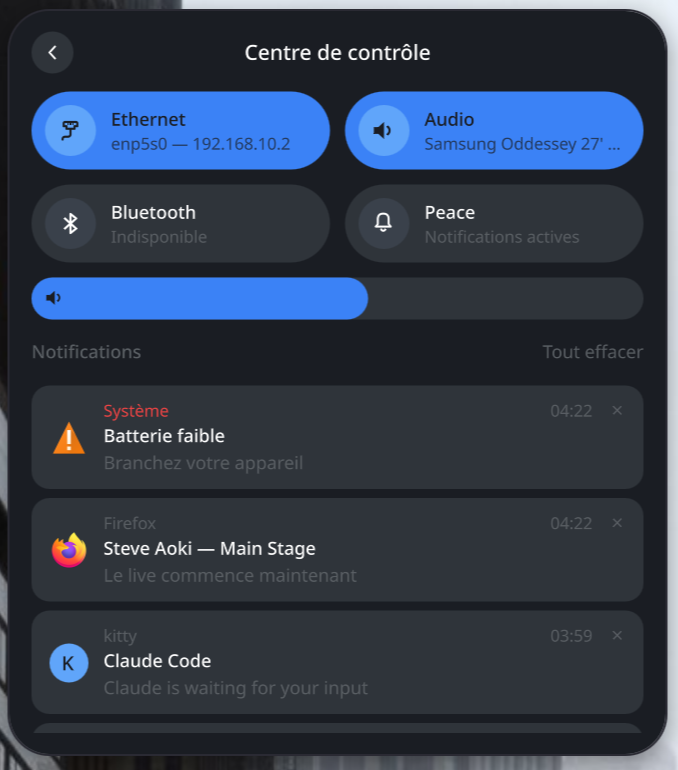
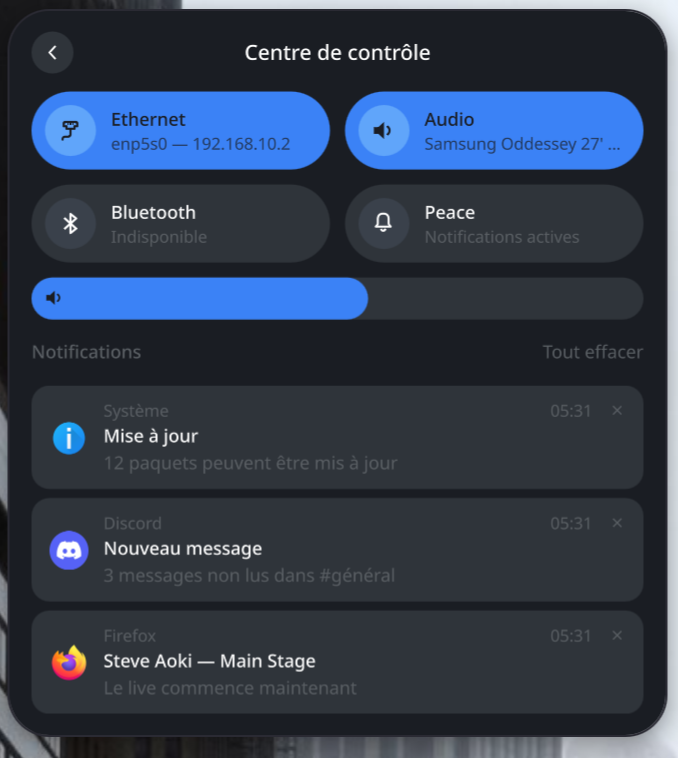
README: retrait rofi/waybar/swaync + captures sans fastfetch

diff --git a/README.md b/README.md
@@ -28,12 +28,11 @@ sont **vectorielles** (aucune police d'icônes).
 
 * **OS :** Fedora Linux
 * **Window Manager :** [Hyprland](https://hyprland.org/) *(compatible v0.55+, nouvelle syntaxe IPC Lua)*
-* **Barre d'état :** [Quickshell](https://quickshell.outfoxxed.me/) — la *Morphing Island* maison *(remplace progressivement waybar)*
+* **Barre d'état & notifications & lanceur :** [Quickshell](https://quickshell.outfoxxed.me/) — la *Morphing Island* maison (remplace barre, notifications et lanceur classiques)
 * **Terminal :** [Kitty](https://sw.kovidgoyal.net/kitty/)
 * **Shell :** [Fish](https://fishshell.com/)
 * **Gestionnaire de fichiers :** [Thunar](https://docs.xfce.org/xfce/thunar/start)
 * **Gestionnaire de fichiers (TUI) :** [Yazi](https://yazi-rs.github.io/)
-* **Lanceur (secours) :** [Rofi](https://github.com/davatorium/rofi)
 * **Menu de déconnexion :** [Wlogout](https://github.com/ArtsyMacaw/wlogout)
 * **Thème GTK :** Fork personnalisé de [Orchis-Theme](https://github.com/vinceliuice/Orchis-theme)
 * **Gestionnaire de connexion :** SDDM [pixie](https://github.com/xCaptaiN09/pixie-sddm)
@@ -62,14 +61,15 @@ La gestion des fichiers est assurée par **GNU Stow**, ce qui permet de conserve
 ├── hyprland/      # ~/.config/hypr/
 ├── kitty/         # ~/.config/kitty/
 ├── quickshell/    # ~/.config/quickshell/   ← la Morphing Island
-├── rofi/          # ~/.config/rofi/
 ├── sddm/          # /etc/sddm.conf.d/ & /usr/share/sddm/themes/
-├── swaync/        # ~/.config/swaync/
-├── waybar/        # ~/.config/waybar/
 ├── wallpapers/    # ~/Pictures/Wallpapers/
 ├── wlogout/       # ~/.config/wlogout/
 └── yazi/          # ~/.config/yazi/
 ```
+
+> Les dossiers `rofi/`, `waybar/` et `swaync/` subsistent dans le dépôt (anciennes
+> configs) mais **ne sont plus utilisés** : lanceur, barre et notifications sont
+> désormais assurés par la Morphing Island.
 
 ## 🛠 Installation & Déploiement
 
@@ -77,7 +77,7 @@ Pour cloner et appliquer cette configuration sur une nouvelle installation Fedor
 
 **1. Installer les dépendances requises**
 ```bash
-sudo dnf install stow git hyprland sddm kitty fish thunar rofi yazi \
+sudo dnf install stow git hyprland sddm kitty fish thunar yazi \
                  brightnessctl fd-find wl-clipboard
 # Quickshell : installez-le selon la documentation officielle
 # (https://quickshell.outfoxxed.me/). hyprsunset est optionnel (mode nuit).
@@ -94,7 +94,7 @@ cd ~/dotfiles
 **3. Déployer les configurations utilisateur**
 Utilisez Stow pour créer les liens symboliques dans votre répertoire personnel :
 ```bash
-stow hyprland quickshell kitty fish rofi yazi wlogout gtk cursor wallpapers
+stow hyprland quickshell kitty fish yazi wlogout gtk cursor wallpapers
 ```
 
 **4. Déployer la configuration système (SDDM)**
